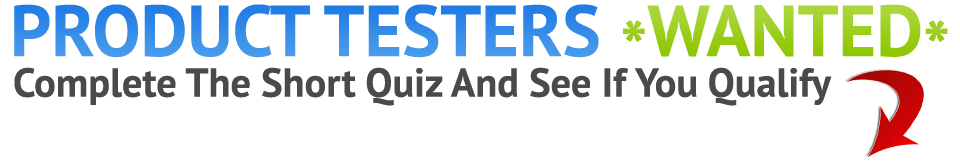
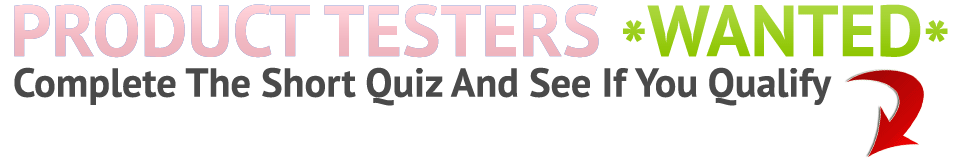
Update all Context into pink

Changed region(s): [[0.0, 0.0309, 0.625, 0.3704]]

diff --git a/include/css/dev.min.css b/include/css/dev.min.css
@@ -114,7 +114,7 @@ a.accordion-toggle {
     font-size: 16px;
 }
 .navbar-inner {
-    background-color: #348be8;
+    background-color: pink;
     background-image: none;
 }
 .reservation-timer, .places-available {
@@ -194,8 +194,7 @@ form.quiz .quizInput label.radio {
     margin: 15px 0;
 }
 .cta {
-    background: none repeat scroll 0 0 #3b5998;
-    border: medium none;
+   border: medium none;
     color: #fff;
     display: block;
     font-size: 22px;
@@ -204,18 +203,21 @@ form.quiz .quizInput label.radio {
     margin: 0;
     padding: 0;
 
-background: #499bea;
-background: -moz-linear-gradient(top,  #499bea 0%, #207ce5 100%);
-background: -webkit-gradient(linear, left top, left bottom, color-stop(0%,#499bea), color-stop(100%,#207ce5));
-background: -webkit-linear-gradient(top,  #499bea 0%,#207ce5 100%);
-background: -o-linear-gradient(top,  #499bea 0%,#207ce5 100%);
-background: -ms-linear-gradient(top,  #499bea 0%,#207ce5 100%);
-background: linear-gradient(to bottom,  #499bea 0%,#207ce5 100%);
-filter: progid:DXImageTransform.Microsoft.gradient( startColorstr='#499bea', endColorstr='#207ce5',GradientType=0 );
+background: #F7A5B3;
+background: -moz-linear-gradient(to bottom, #F7A5B3 0%,pink 100%)
+background: -webkit-gradient(linear, left top, left bottom, color-stop(0%,#F7A5B3), color-stop(100%,pink));
+background: -webkit-linear-gradient(top,  #F7A5B3 0%,pink 100%);
+background: -o-linear-gradient(top,  #F7A5B3 0%,pink 100%);
+background: -ms-linear-gradient(top,  #F7A5B3 0%,pink 100%);
+background: linear-gradient(to bottom,  #F7A5B3 0%,pink 100%);
+filter: progid:DXImageTransform.Microsoft.gradient( startColorstr='#F7A5B3', endColorstr='pink',GradientType=0 );
 
 }
+h1.entry-title span {
+    color: pink;
+}
 
-.cta:hover {
+/*.cta:hover {
 background: #207ce5;
 background: -moz-linear-gradient(top,  #207ce5 0%, #499bea 100%);
 background: -webkit-gradient(linear, left top, left bottom, color-stop(0%,#207ce5), color-stop(100%,#499bea));
@@ -224,7 +226,7 @@ background: -o-linear-gradient(top,  #207ce5 0%,#499bea 100%);
 background: -ms-linear-gradient(top,  #207ce5 0%,#499bea 100%);
 background: linear-gradient(to bottom,  #207ce5 0%,#499bea 100%);
 filter: progid:DXImageTransform.Microsoft.gradient( startColorstr='#207ce5', endColorstr='#499bea',GradientType=0 );
-}
+}*/
 
 .cta span {
     position: relative;
